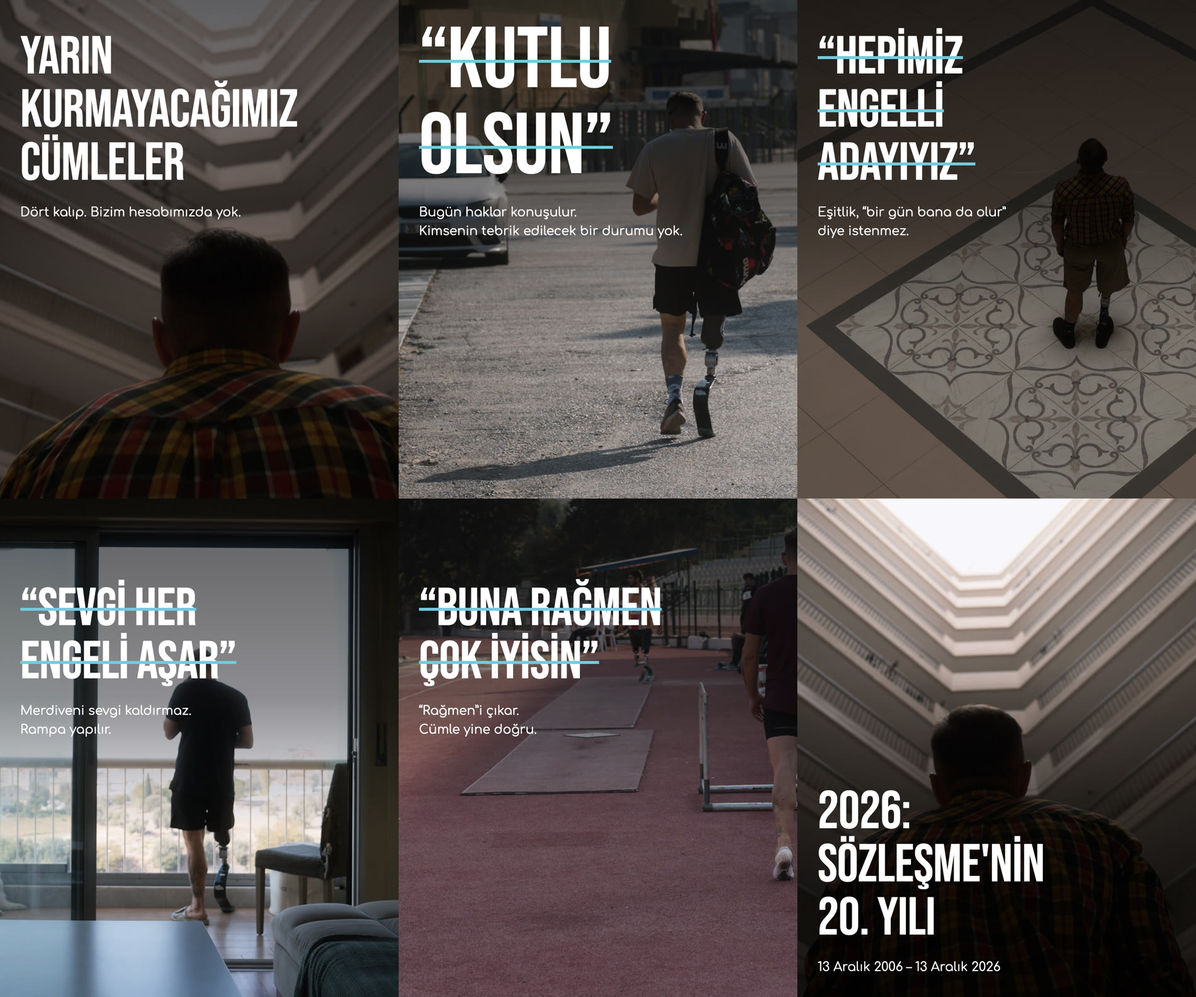
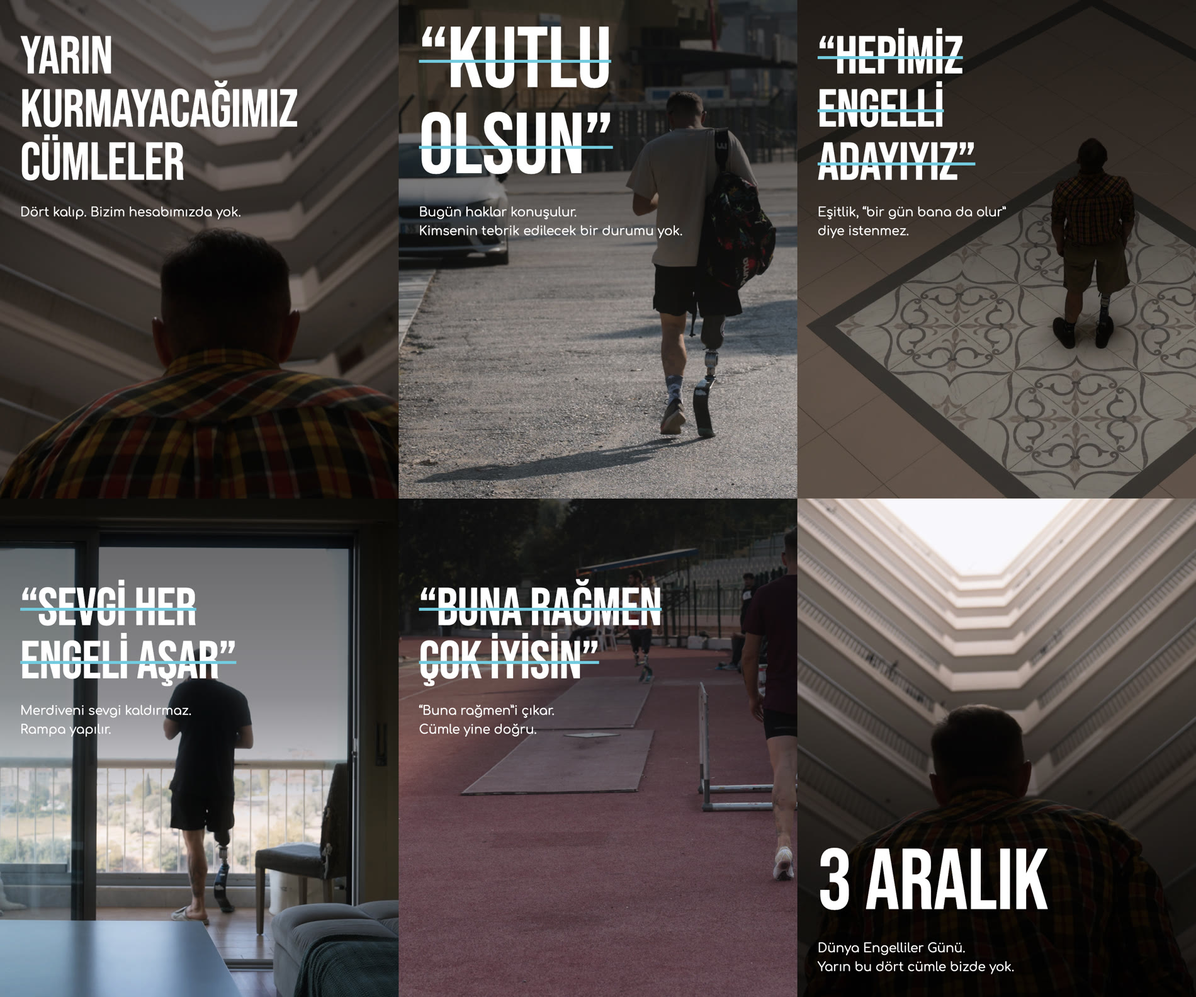
14 Kas: Denetmen 2. tur bulguları işlendi; 3 Aralık kaydırmalısından 13 Aralık çıkarıldı; maliyet kapıları kütükte

Changed region(s): [[0.6832, 0.7738, 0.8695, 0.9905], [0.3726, 0.7119, 0.4347, 0.7429]]

diff --git a/raporlar/soc-instagram-taslaklar/11-insan-haklari-gunu/kare-6.html b/raporlar/soc-instagram-taslaklar/11-insan-haklari-gunu/kare-6.html
@@ -13,5 +13,5 @@ html,body{margin:0} .f{position:relative;width:1080px;height:1350px;overflow:hid
 
 .blk.top .s{position:absolute;top:537px;left:0}
 .blk.bottom .h{margin-bottom:34px}
-.small .s{font-size:21px;line-height:1.62}
-.g{position:absolute;background:#72CBDF;opacity:.9}</style></head><body><div class="f" style="background-image:url(v4/b6.jpg)"><div class="sc bottom"></div><div class="blk bottom small"><p class="h" style="font-size:144px">MAKING<br>HUMANITY<br>TOGETHER</p><p class="s">10 Aralık İnsan Hakları Günü, 2026 teması.<br>Kaynak: un.org · treaties.un.org (14 Kasım 2026).<br>Madde özetleri bize ait, resmî çeviri değildir.</p></div></div></body></html>
+.small .s{font-size:28px;line-height:1.55}
+.g{position:absolute;background:#72CBDF;opacity:.9}</style></head><body><div class="f" style="background-image:url(v4/b6.jpg)"><div class="sc bottom"></div><div class="blk bottom small"><p class="h" style="font-size:144px">MAKING<br>HUMANITY<br>TOGETHER</p><p class="s">10 Aralık İnsan Hakları Günü, 2026 teması.<br>Kaynak: un.org · treaties.un.org<br>Madde özetleri bize ait,<br>resmî çeviri değildir.</p></div></div></body></html>

diff --git a/raporlar/soc-instagram-taslaklar/11-insan-haklari-gunu/kare-4.html b/raporlar/soc-instagram-taslaklar/11-insan-haklari-gunu/kare-4.html
@@ -13,5 +13,5 @@ html,body{margin:0} .f{position:relative;width:1080px;height:1350px;overflow:hid
 
 .blk.top .s{position:absolute;top:537px;left:0}
 .blk.bottom .h{margin-bottom:34px}
-.small .s{font-size:21px;line-height:1.62}
-.g{position:absolute;background:#72CBDF;opacity:.9}</style></head><body><div class="f" style="background-image:url(v4/b4.jpg)"><div class="sc top"></div><div class="blk top"><p class="h" style="font-size:233px">MADDE<br>30</p><p class="s">Kültür, dinlenme, boş zaman ve spor.<br>Devletler engelli bireylerin her düzeyde<br>spora katılımını teşvik eder,<br>spor alanlarına erişimi sağlar.</p></div></div></body></html>
+.small .s{font-size:28px;line-height:1.55}
+.g{position:absolute;background:#72CBDF;opacity:.9}</style></head><body><div class="f" style="background-image:url(v4/b4.jpg)"><div class="sc top"></div><div class="blk top"><p class="h" style="font-size:233px">MADDE<br>30</p><p class="s">Kültür, dinlenme, boş zaman ve spor.<br>Devletler engelli bireylerin her düzeyde<br>spora katılımını teşvik etmekle,<br>spor alanlarına erişimi sağlamakla yükümlü.</p></div></div></body></html>

diff --git a/raporlar/soc-instagram-taslaklar/11-insan-haklari-gunu/kare-5.html b/raporlar/soc-instagram-taslaklar/11-insan-haklari-gunu/kare-5.html
@@ -13,5 +13,5 @@ html,body{margin:0} .f{position:relative;width:1080px;height:1350px;overflow:hid
 
 .blk.top .s{position:absolute;top:537px;left:0}
 .blk.bottom .h{margin-bottom:34px}
-.small .s{font-size:21px;line-height:1.62}
-.g{position:absolute;background:#72CBDF;opacity:.9}</style></head><body><div class="f" style="background-image:url(v4/b5.jpg)"><div class="sc bottom"></div><div class="blk bottom c"><p class="h" style="font-size:233px">OKULDA DA</p><p class="s">Aynı madde: engelli çocuklar oyuna, spora<br>ve dinlenmeye, okul dahil,<br>diğer çocuklarla eşit erişir.</p></div></div></body></html>
+.small .s{font-size:28px;line-height:1.55}
+.g{position:absolute;background:#72CBDF;opacity:.9}</style></head><body><div class="f" style="background-image:url(v4/b5.jpg)"><div class="sc bottom"></div><div class="blk bottom c"><p class="h" style="font-size:233px">OKULDA DA</p><p class="s">Aynı madde: devletler engelli çocukların<br>oyuna, spora ve dinlenmeye, okul dahil,<br>eşit erişimini sağlamakla yükümlü.</p></div></div></body></html>

diff --git a/raporlar/soc-instagram-taslaklar/11-insan-haklari-gunu/kare-1.html b/raporlar/soc-instagram-taslaklar/11-insan-haklari-gunu/kare-1.html
@@ -13,5 +13,5 @@ html,body{margin:0} .f{position:relative;width:1080px;height:1350px;overflow:hid
 
 .blk.top .s{position:absolute;top:537px;left:0}
 .blk.bottom .h{margin-bottom:34px}
-.small .s{font-size:21px;line-height:1.62}
-.g{position:absolute;background:#72CBDF;opacity:.9}</style></head><body><div class="f" style="background-image:url(v4/b1.jpg)"><div class="sc top"></div><div class="blk top"><p class="h" style="font-size:377px">20 YIL.</p><p class="s">BM Engelli Hakları Sözleşmesi<br>13 Aralık'ta 20 yaşında.<br>İçinde ne yazıyor?</p></div></div></body></html>
+.small .s{font-size:28px;line-height:1.55}
+.g{position:absolute;background:#72CBDF;opacity:.9}</style></head><body><div class="f" style="background-image:url(v4/b1.jpg)"><div class="sc top"></div><div class="blk top"><p class="h" style="font-size:377px">20 YIL.</p><p class="s">Engellilerin Haklarına İlişkin Sözleşme<br>13 Aralık'ta 20 yaşında.<br>İçinde ne yazıyor?</p></div></div></body></html>

diff --git a/raporlar/soc-instagram-taslaklar/07-engelliler-gunu/e7_5.html b/raporlar/soc-instagram-taslaklar/07-engelliler-gunu/e7_5.html
@@ -11,4 +11,4 @@ html,body{margin:0} .f{position:relative;width:1080px;height:1350px;overflow:hid
 .h.x{text-decoration:line-through;text-decoration-color:#72CBDF;text-decoration-thickness:8px}
 .s{font:400 34px/1.5 Comf;margin:0;white-space:nowrap}
 .blk.top .s{position:absolute;top:550px;left:0}
-.blk.bottom .h{margin-bottom:34px}</style></head><body><div class="f" style="background-image:url(e7/b5.jpg)"><div class="sc top"></div><div class="blk top"><p class="h x" style="font-size:144px">“BUNA RAĞMEN<br>ÇOK İYİSİN”</p><p class="s">“Rağmen”i çıkar.<br>Cümle yine doğru.</p></div></div></body></html>
+.blk.bottom .h{margin-bottom:34px}</style></head><body><div class="f" style="background-image:url(e7/b5.jpg)"><div class="sc top"></div><div class="blk top"><p class="h x" style="font-size:144px">“BUNA RAĞMEN<br>ÇOK İYİSİN”</p><p class="s">“Buna rağmen”i çıkar.<br>Cümle yine doğru.</p></div></div></body></html>

diff --git a/raporlar/soc-instagram-taslaklar/07-engelliler-gunu/e7_6.html b/raporlar/soc-instagram-taslaklar/07-engelliler-gunu/e7_6.html
@@ -11,4 +11,4 @@ html,body{margin:0} .f{position:relative;width:1080px;height:1350px;overflow:hid
 .h.x{text-decoration:line-through;text-decoration-color:#72CBDF;text-decoration-thickness:8px}
 .s{font:400 34px/1.5 Comf;margin:0;white-space:nowrap}
 .blk.top .s{position:absolute;top:550px;left:0}
-.blk.bottom .h{margin-bottom:34px}</style></head><body><div class="f" style="background-image:url(e7/b6.jpg)"><div class="sc bottom"></div><div class="blk bottom"><p class="h" style="font-size:144px">2026:<br>SÖZLEŞME'NİN<br>20. YILI</p><p class="s">13 Aralık 2006 – 13 Aralık 2026</p></div></div></body></html>
+.blk.bottom .h{margin-bottom:34px}</style></head><body><div class="f" style="background-image:url(e7/b6.jpg)"><div class="sc bottom"></div><div class="blk bottom"><p class="h" style="font-size:233px">3 ARALIK</p><p class="s">Dünya Engelliler Günü.<br>Yarın bu dört cümle bizde yok.</p></div></div></body></html>

diff --git a/raporlar/soc-instagram-taslaklar/11-insan-haklari-gunu/kare-3.html b/raporlar/soc-instagram-taslaklar/11-insan-haklari-gunu/kare-3.html
@@ -13,5 +13,5 @@ html,body{margin:0} .f{position:relative;width:1080px;height:1350px;overflow:hid
 
 .blk.top .s{position:absolute;top:537px;left:0}
 .blk.bottom .h{margin-bottom:34px}
-.small .s{font-size:21px;line-height:1.62}
+.small .s{font-size:28px;line-height:1.55}
 .g{position:absolute;background:#72CBDF;opacity:.9}</style></head><body><div class="f" style="background-image:url(v4/b3.jpg)"><div class="sc top"></div><div class="blk top"><p class="h" style="font-size:233px">194<br>TARAF</p><p class="s">Sözleşmeye bugün<br>194 taraf var.<br>Türkiye 30 Mart 2007'de<br>imzaladı, 28 Eylül 2009'da<br>onayladı.</p></div></div></body></html>

diff --git a/raporlar/soc-instagram-taslaklar/11-insan-haklari-gunu/kare-2.html b/raporlar/soc-instagram-taslaklar/11-insan-haklari-gunu/kare-2.html
@@ -13,5 +13,5 @@ html,body{margin:0} .f{position:relative;width:1080px;height:1350px;overflow:hid
 
 .blk.top .s{position:absolute;top:537px;left:0}
 .blk.bottom .h{margin-bottom:34px}
-.small .s{font-size:21px;line-height:1.62}
+.small .s{font-size:28px;line-height:1.55}
 .g{position:absolute;background:#72CBDF;opacity:.9}</style></head><body><div class="f" style="background-image:url(v4/b2.jpg)"><div class="sc top"></div><div class="blk top"><p class="h" style="font-size:233px">13 ARALIK<br>2006</p><p class="s">BM Genel Kurulu sözleşmeyi kabul etti.<br>3 Mayıs 2008'de yürürlüğe girdi.</p></div></div></body></html>

diff --git a/raporlar/soc-instagram-taslaklar/11-insan-haklari-gunu/uretici.py b/raporlar/soc-instagram-taslaklar/11-insan-haklari-gunu/uretici.py
@@ -3,12 +3,12 @@ F=sys.argv[1]; GRID=len(sys.argv)>2
 # Altın oran ızgarası: 1080x1350. Dikey 413/667, yatay 516/834. Kenar 55. Ölçek (Fibonacci): 377/233/144/89/55/34/21
 fr=[
  # zone, align, headline, size, sub
- ("top","l","20 YIL.",377,"BM Engelli Hakları Sözleşmesi<br>13 Aralık'ta 20 yaşında.<br>İçinde ne yazıyor?"),
+ ("top","l","20 YIL.",377,"Engellilerin Haklarına İlişkin Sözleşme<br>13 Aralık'ta 20 yaşında.<br>İçinde ne yazıyor?"),
  ("top","l","13 ARALIK<br>2006",233,"BM Genel Kurulu sözleşmeyi kabul etti.<br>3 Mayıs 2008'de yürürlüğe girdi."),
  ("top","l","194<br>TARAF",233,"Sözleşmeye bugün<br>194 taraf var.<br>Türkiye 30 Mart 2007'de<br>imzaladı, 28 Eylül 2009'da<br>onayladı."),
- ("top","l","MADDE<br>30",233,"Kültür, dinlenme, boş zaman ve spor.<br>Devletler engelli bireylerin her düzeyde<br>spora katılımını teşvik eder,<br>spor alanlarına erişimi sağlar."),
- ("bottom","c","OKULDA DA",233,"Aynı madde: engelli çocuklar oyuna, spora<br>ve dinlenmeye, okul dahil,<br>diğer çocuklarla eşit erişir."),
- ("bottom","l","MAKING<br>HUMANITY<br>TOGETHER",144,"10 Aralık İnsan Hakları Günü, 2026 teması.<br>Kaynak: un.org · treaties.un.org (14 Kasım 2026).<br>Madde özetleri bize ait, resmî çeviri değildir."),
+ ("top","l","MADDE<br>30",233,"Kültür, dinlenme, boş zaman ve spor.<br>Devletler engelli bireylerin her düzeyde<br>spora katılımını teşvik etmekle,<br>spor alanlarına erişimi sağlamakla yükümlü."),
+ ("bottom","c","OKULDA DA",233,"Aynı madde: devletler engelli çocukların<br>oyuna, spora ve dinlenmeye, okul dahil,<br>eşit erişimini sağlamakla yükümlü."),
+ ("bottom","l","MAKING<br>HUMANITY<br>TOGETHER",144,"10 Aralık İnsan Hakları Günü, 2026 teması.<br>Kaynak: un.org · treaties.un.org<br>Madde özetleri bize ait,<br>resmî çeviri değildir."),
 ]
 css=f"""@font-face{{font-family:Bebas;src:url(file://{F}/BebasNeue-Regular.ttf)}}
 @font-face{{font-family:Comf;src:url(file://{F}/Comfortaa-Regular.ttf)}}
@@ -25,7 +25,7 @@ html,body{{margin:0}} .f{{position:relative;width:1080px;height:1350px;overflow:
 
 .blk.top .s{{position:absolute;top:537px;left:0}}
 .blk.bottom .h{{margin-bottom:34px}}
-.small .s{{font-size:21px;line-height:1.62}}
+.small .s{{font-size:28px;line-height:1.55}}
 .g{{position:absolute;background:#72CBDF;opacity:.9}}"""
 grid='<div class="g" style="left:413px;top:0;width:2px;height:100%"></div><div class="g" style="left:667px;top:0;width:2px;height:100%"></div><div class="g" style="top:516px;left:0;height:2px;width:100%"></div><div class="g" style="top:834px;left:0;height:2px;width:100%"></div><div class="g" style="left:55px;top:0;width:1px;height:100%;opacity:.5"></div><div class="g" style="left:1025px;top:0;width:1px;height:100%;opacity:.5"></div>' if GRID else ''
 for i,(z,a,h,fs,s) in enumerate(fr,1):

diff --git a/raporlar/soc-instagram-taslaklar/07-engelliler-gunu/uretici.py b/raporlar/soc-instagram-taslaklar/07-engelliler-gunu/uretici.py
@@ -5,8 +5,8 @@ fr=[
  ("top","“KUTLU<br>OLSUN”",233,"Bugün haklar konuşulur.<br>Kimsenin tebrik edilecek bir durumu yok.",True),
  ("top","“HEPİMİZ<br>ENGELLİ<br>ADAYIYIZ”",144,"Eşitlik, “bir gün bana da olur”<br>diye istenmez.",True),
  ("top","“SEVGİ HER<br>ENGELİ AŞAR”",144,"Merdiveni sevgi kaldırmaz.<br>Rampa yapılır.",True),
- ("top","“BUNA RAĞMEN<br>ÇOK İYİSİN”",144,"“Rağmen”i çıkar.<br>Cümle yine doğru.",True),
- ("bottom","2026:<br>SÖZLEŞME'NİN<br>20. YILI",144,"13 Aralık 2006 – 13 Aralık 2026",False),
+ ("top","“BUNA RAĞMEN<br>ÇOK İYİSİN”",144,"“Buna rağmen”i çıkar.<br>Cümle yine doğru.",True),
+ ("bottom","3 ARALIK",233,"Dünya Engelliler Günü.<br>Yarın bu dört cümle bizde yok.",False),
 ]
 css=f"""@font-face{{font-family:Bebas;src:url(file://{F}/BebasNeue-Regular.ttf)}}
 @font-face{{font-family:Comf;src:url(file://{F}/Comfortaa-Regular.ttf)}}

diff --git a/raporlar/denetmen-soc-instagram-v5-ve-adaylar-2026-11-14.md b/raporlar/denetmen-soc-instagram-v5-ve-adaylar-2026-11-14.md
@@ -1,0 +1,171 @@
+# DENETMEN RAPORU (Orkestratör Sentezi) — 2. tur
+
+**Tarih:** 14 Kasım 2026, Cumartesi
+**Denetlenen:** Fox — SoC Instagram planı v5 (A) · madde 11 kaydırmalı taslağı, 6 kare (B) · Higgsfield adayları: 4 durağan + 3 UGC kare + 5 UGC video (C) · Metin Yazarı metinler v01 (D) · Astrid sahne seti (E)
+**Mercekler:** Verification · Red Team · Devil's Advocate (tek elden yürütüldü, ayrı alt ajan çağrılmadı) + Tutarlılık / Değer Uyumu / Kalite Tabanı / Atlanmış Soru / İnsan Sesi / Erişilebilirlik (uygulanmaz: hiçbir şey yayınlanmadı)
+**Kapsam:** Ayhan'ın 14 Kas kararları (Higgsfield, spor çizgisi, geniş açı lifestyle, UGC dilinde üretim, Belgesel Stills izni) verili alındı, tartışılmadı. Hiçbir dosya değiştirilmedi, hiçbir şey yayınlanmadı, kredi harcanmadı. `Yapay Zeka Görselleri` klasörü yalnız okundu; videolardan scratch dizinine küçük kare tabloları çıkarıldı, başka hiçbir araca girdi verilmedi.
+
+## KARAR: DİKKAT — B ve C'nin UGC kısmı bu haliyle yayın için DUR
+
+Uydurma tarih ya da rakam bulmadım; madde 11'deki olguların hepsi birincil kaynakla tutuyor. Sorun üç yerde: (1) YZ "UGC" adayları planın kendi dürüstlük kuralını ve "yüz yok" kuralını çiğniyor, (2) madde 11'de gerçek sporcular tanınabilir ve karelerde dört ayrı üçüncü taraf işareti var, (3) plan v5 ile bugün fiilen üretilenler birbirinden kopmuş.
+
+---
+
+## DOĞRULANANLAR (bulgu değil, kayıt)
+
+| Olgu (kare) | Kaynak (bugün açıldı) | Sonuç |
+|---|---|---|
+| 13 Aralık 2006, BM Genel Kurulu kabul (2) | treaties.un.org IV-15: "New York, 13 December 2006", A/RES/61/106 | Tutuyor |
+| 3 Mayıs 2008 yürürlük (2) | aynı sayfa: "3 May 2008, in accordance with article 45(1)" | Tutuyor |
+| 194 taraf (3) | aynı sayfa: "Signatories : 164. Parties : 194" | Tutuyor (14 Kas okuması; taraflardan biri AB, "194 devlet" denmemeli — kare "taraf" diyor, doğru) |
+| Türkiye 30 Mar 2007 imza, 28 Eyl 2009 onay (3) | aynı sayfa, Türkiye satırı | Tutuyor |
+| "13 Aralık'ta 20 yaşında" (1) | kabul tarihinden 20 yıl | Doğru (yürürlükten değil kabulden sayılıyor; kare 2 bunu açıklıyor) |
+| "Making Humanity Together", 2026 (6) | un.org/en/observances/human-rights-day: "2026 Theme – Making Humanity Together" | Tutuyor |
+| Madde 30 başlığı ve 5. fıkra (4, 5) | aile.gov.tr resmî Türkçe metin (başlık: "Kültürel Yaşama, Dinlenme, Boş Zaman Aktiviteleri ve Spor Faaliyetlerine Katılım"); ohchr.org 403 verdi, İngilizce metin hafızadan karşılaştırıldı | Özet içerikçe sadık; iki nüans bulgu 6'da |
+| Sözleşme'nin resmî Türkçe adı | aile.gov.tr + Resmî Gazete 14.07.2009/27288 (5825 sayılı Kanun) | **"Engellilerin Haklarına İlişkin Sözleşme"** — metinler v01'deki bayrak kapanabilir |
+| Türkçe glyph | altı PNG gözle bakıldı | İ (İçinde, İnsan), ı (YIL, ARALIK, yazıyor), ş, ü, ğ, î (resmî) doğru. Marka fontları yüklü (Bebas Neue + Comfortaa) |
+| 3 Aralık 2026 teması (metinler, madde 07 kare 6) | idpwd.gov.au (Avustralya hükümeti) "The CRPD at 20: Building on Progress, Advancing the Future" diyor; BM'nin kendi sayfasında **görmedim** | Hâlâ ikincil. Bayrak yerinde kalmalı |
+
+Plan sayımları: kaynak dengesi (6+1 / 8 / 2 / 3 = 20), format (6 / 6 / 6 / 1 / 1), çekirdek 14 + isteğe bağlı 6 — üçü de tablodan yeniden sayıldı, tutuyor. Beş özel gün karşılanıyor (04, 07+08, 11, 13 şartlı, 18).
+
+---
+
+## BULGULAR
+
+### Bloklayan
+
+**1. (C) YZ "UGC" kareleri ve videoları gerçek kullanıcı izlenimi veriyor; plan kendi kuralıyla çelişiyor.** *Red Team + Değer Uyumu*
+Kanıt: (a) `tur-4-prompt-ugc-*.txt` ilk satırı: "It is a real, casual photo taken on a current iPhone by a friend or by the person themself and posted to Instagram as is." Amaç metni gerçek kullanıcı paylaşımını taklit etmek. (b) Plan §2 karar 4: "Oyuncuya kullanıcı gibi davrandırmak plan dışı"; §2.1: "UGC dilindeki kareler gerçek kullanıcı içeriği gibi sunulmaz." Var olmayan bir insana kullanıcı gibi davrandırmak aynı şeyin YZ hali. (c) `ugc-ayna-soyunma-odasi.png`: ayna selfie'si, üç mercekli telefon, yüzün yarısı görünür — kareyi gören "bu kadın çorabı aldı ve paylaştı" okur. (d) K8 (YZ etiketi) hâlâ açık karar; etiket caption'ın altında kalır, kare ekran görüntüsüyle dolaşır.
+İşaret (hüküm değil, avukata): Türkiye'de reklam mevzuatında tanıklık içeren reklam ve örtülü reklam hükümleri (6502 sayılı Kanun md. 61, Ticari Reklam ve Haksız Ticari Uygulamalar Yönetmeliği) ve Reklam Kurulu'nun sosyal medya kılavuzu bu tür içeriğe dokunabilir. Meta gerçekçi YZ video için etiket istiyor.
+Düzeltme: ayna selfie'si elenir (en yüksek aldatma riski). Kalan geniş açı kareler "UGC" adıyla değil "marka çekimi, YZ ile üretildi" diye adlandırılır; plan ve dosya adlarından "UGC" çıkar. K8 "öneri" olmaktan çıkıp ön koşul olur: etiket + caption'da bir satır. Prompt'tan "posted to Instagram as is by the person" cümlesi çıkar. Madde 17 (gerçek davetli içerik) ile aynı ay içinde yan yana durmaları ayrıca sorun: gerçek kullanıcı içeriği geldiğinde kimse inanmaz.
+
+**2. (C/A) Plan "yüz yok" diyor; yedi adayın beşinde okunur yüz var.** *Tutarlılık + Red Team*
+Kanıt: Plan §2.1: "Yüz yok. Üretilen karelerde yalnız diz altı, el, eşya." K1: "yüzsüz bir figür (diz altı, eller)". Adaylar: `ugc-tribun-kosu-sonrasi.png` kameraya dönük olmasa da tam yüz, kahkaha; `ugc-korttan-cikis.png` tam profil; `ugc-video-kort-servis-hazirligi.mp4` 6 saniye boyunca yüz; `ugc-video-pist-esneme.mp4` ikinci yarıda yüz. Astrid'in kendi kuralı (§Yön 13: "Kameraya bakan, gülümseyen figür yok") da tribün karesinde çiğnenmiş. Fotogerçekçi YZ yüzün gerçek bir kişiye benzeme riski ölçülmedi, ölçülemez; benzeyen biri çıkarsa "yüzüm reklamda" şikâyeti markaya gelir.
+Düzeltme: ya plan dürüstçe güncellenir ("tam boy figürde yüz arkadan/profilden, küçük; kahkaha ve okunur yüz yok") ve tribün + servis videosu buna göre elenir/yeniden kadrajlanır, ya da Ayhan okunur YZ yüzü bilerek kabul eder. Bu bir Ayhan kararı ve K listesinde yok.
+
+**3. (B) Madde 11'deki sporcular "yüz yok" olsa da tanınabilir; marka hesabı kullanımı için rıza teyidi yazılı değil.** *Red Team + Değer Uyumu*
+Kanıt: kare 1 — bacakta dövme + bıçak protezde mavi pençe çıkartması; kare 3 — iki sporcu arkadan, biri çift taraflı koşu protezi kullanıyor, kulak ve saç okunur; kare 4 — tişört kolunda kulüp arması, yüzün bir kısmı. Türkiye'de protezli atletizm küçük bir çevre; bu üç kare o çevrede isimle okunur. Ayhan'ın "belgesel stills'i kullanabilirsin" izni filmin sahibi olarak kendi hakkını kapatır; sporcuların filme verdiği rızanın **çorap satan bir marka hesabını** kapsayıp kapsamadığı ayrı soru. Hafıza notu da "reşit olmayan kapısı yine uygulanır" diyor; karelerdeki kişilerin yaşı dosyada yazmıyor.
+Ayhan'a tek cümle: *"Bu dört karedeki sporcular, görüntülerinin belgeselin dışında Steps On Clouds'un Instagram hesabında kullanılmasına da evet dedi mi, aralarında 18 yaşından küçük var mı?"* Cevap gelene kadar kare 1–4 yayınlanmaz.
+
+**4. (B) Karelerde dört üçüncü taraf işareti var; biri rakip kategori.** *Red Team*
+Kanıt: kare 1 sol üst — şortta üç bant + yazı (Adidas görünümlü); kare 2 — ayakkabı dilinde okunur "NIKE", yanında desenli **başka bir çorap markasının** logolu çorabı kareyi dolduruyor, protez bıçağında üretici yazısı ("FRE…"); kare 4 — ayakkabıda belirgin swoosh + aynı desenli çorap; kare 3 — bıçak tabanında sarı marka deseni (düşük).
+Risk düzeyi: hukuki taraf **orta-düşük** (gerçek belgesel karesi, ürün satmıyor; ama marka hesabı ticari hesap — işaret avukata). Ticari/itibar tarafı **orta-yüksek**: çorap satan bir markanın hak günü gönderisinin ikinci karesinde başka bir çorap markası başrolde; ve bu markalar kendi hesaplarından "hak gününde logomuzla ne yapıyorsunuz" diyebilir. Plan madde 11 kapısı yalnız "ayakkabıdaki marka işareti" diyor; şort, çorap ve protez üreticisi yazılmamış.
+Düzeltme: kare 2 değişir (çorap + NIKE aynı karede, kırpmayla kurtulmaz). Kare 4 ayak bölgesi kadraj dışına alınır ya da kare değişir. Kare 1'de sol üst köşe kırpılır. Logoyu silmek/boyamak önermiyorum: belgesel karesinde rötuş "gerçek kare" iddiasını zayıflatır; doğrusu başka kare seçmek.
+
+**5. (E) Astrid sahne seti YZ çıktısını yeniden girdi yapıyor; Ayhan'ın açık yasağı.** *Tutarlılık*
+Kanıt: Astrid §4, 05-2 / 05-3 / 05-4 / 10-1 / 10-2 / 10-3 referans sırası: "4) `tur-3-soyunma-odasi.jpg` (mekân ve kişi kilidi)", "`tur-3-kort-esigi.jpg`", "`tur-3-pist.jpg`"; §3: "ilk onaylanan geniş kare… kilit olur". Bunlar `Yapay Zeka Görselleri/Adaylar` içindeki dosyaların repo kopyası. Ayhan: "Sakın… Yapay Zeka Görselleri klasörünü tekrar tekrar işleme"; hafıza: "referans/girdi olarak tekrar üretime sokulmaz. Higgsfield referansı yalnız orijinal fotoğraftan verilir." Bugünkü beş video da YZ kareden hareketlendirildi ("exactly as in the first frame"): yasak görselden-videoya üretimi kapsıyor mu, sorulmamış.
+Düzeltme: üretimden önce Ayhan'a tek soru: "YZ karesini (a) videoya çevirmek, (b) sonraki kareye kişi/mekân kilidi olarak vermek yasağın içinde mi?" Cevap gelene kadar set yalnız üç orijinal referansla (`3H2A9014/8997/8554`) çalışır; 4. referans satırları çıkar.
+
+### Düzeltilmeli
+
+**6. (B) Madde 30 özeti: iki nüans ve bir görsel-yazı kopukluğu.** *Verification*
+- Kare 5: "engelli çocuklar… diğer çocuklarla eşit erişir." Sözleşme bir yükümlülük koyar (devletler eşit erişimi **sağlamak için tedbir alır**); kare bunu olmuş bir durum gibi yazıyor. Türkiye'de okulda spora erişemeyen bir çocuğun velisi bu cümleyi yanlış bulur. Öneri: "Devletler, engelli çocukların… eşit erişimini sağlamakla yükümlü."
+- Kare 4: "teşvik eder, … sağlar" yükümlülüğü abartmıyor, ama "uygun tedbirleri alır" çerçevesi ve "genel (herkese açık) spor etkinlikleri / mümkün olan en geniş ölçüde" kaydı düşmüş. Kabul edilebilir kısaltma; "Taraf devletler" yazılırsa daha doğru.
+- Kare 5 görseli bir apartman boşluğu ve bisikletler; başlık "OKULDA DA". Görsel okul değil. Hafıza notundaki "görsel yazı sinerjisi" isteğiyle çelişiyor.
+- Kare 6 uyarı satırı ("Madde özetleri bize ait, resmî çeviri değildir") 21 px; 1080 px karede telefonda yaklaşık 7 punto, okunmaz. Uyarı okunmuyorsa yok sayılır. En az 34 px ya da caption'a da yazılmalı.
+- "194 taraf… bugün": sayı 14 Kasım okuması; 10 Aralık sabahı yeniden okunmalı (yayın günü kapısı).
+- Adlandırma: kare 1 "BM Engelli Hakları Sözleşmesi" (yaygın kısa ad), metinler v01 caption'ı "Engellilerin Haklarına İlişkin Sözleşme" (resmî ad, bugün teyit edildi). Yanlış değil ama iki ad aynı gönderide. Caption'da resmî ad bir kez, karede kısa ad kalabilir. "Sözleşmesi / sözleşmeyi / Sözleşmeye" büyük-küçük harf tutarsız.
+
+**7. (B) Onur: kapakta protez kanca kare olarak çalışıyor; kare 4 yorgunluk okutuyor.** *Değer Uyumu*
+Kare 1: kişi kesilmiş, kadrajın öznesi bıçak protez, üstünde 377 punto "20 YIL." İnsan değil cihaz kapakta. Acıma ya da ilham çerçevesi yok, süper-insan dili yok; ama hak temalı bir gönderide dikkat çekici nesne olarak protez seçilmiş — planın kendi sabiti ("protez… görselle de kurulmaz", "kanca kare" kaygısı) ile aynı aileden. Kare 3 (iki sporcu yan yana yürüyor, biri kolunu diğerinin omzuna atmış; fail, gündelik, eşit) bu setin en onurlu karesi ve kapak adayı.
+Kare 4: sporcu başını engele yaslamış, yüz kollarda; üstünde "Devletler… teşvik eder". Antrenman arası dinlenme, ama hak cümlesiyle yan yana "zorlanıyor, devlet yardım etmeli" diye okunabilir. Kurban çerçevesine en yakın kare bu. Hareket hâlinde bir kareyle değişmeli.
+Öneri: sıra 3 → kapak; kare 1 içeriye; kare 4 değişir.
+
+**8. (C) Çorap logosu ve ürün temsili: aday aday.** *Verification — gerçek referans `3H2A9014.jpg` ile karşılaştırıldı (bulut konturu + sağ üstte küçük figür, koncun dış yanında, yaklaşık konç genişliğinin yarısı)*
+
+| Aday | Logo | Diğer | Öneri |
+|---|---|---|---|
+| `aday-ipte` | Dört amblem de referansa yakın; konumu konç ağzına fazla yakın | Yok | Kullanılabilir (en temiz aday) |
+| `aday-kort-esigi` | Ön çorap yakın; arka çorapta amblem dönmüş, figür altta | Ayakkabı referanstaki üçüncü taraf modelin neredeyse kopyası (yan panelde gri bant) | Arka amblem düzelmeden çıkmaz; ayakkabı K4'e bağlı |
+| `aday-pist` | Amblem çorabın **arkasında**, sol çorapta iki amblem, sağda yarım üçüncü | — | Ele |
+| `aday-soyunma-odasi` | Amblem gerçeğinin yaklaşık iki katı, figür yeri kaymış | Kadrajda şort/giysi görünmüyor, figür çıplak okunuyor (Astrid de not etmiş) | Ele ya da yeniden kadraj |
+| `ugc-ayna-soyunma-odasi` | Sol çorapta amblem dikey bir işarete dönmüş | Üç mercekli telefon (logo yok ama tasarım tanınır); yüz | Ele (bulgu 1) |
+| `ugc-korttan-cikis` | Küçük, kabul edilebilir | Raket çantasında marka grafiğine benzer kırmızı-yeşil işaretler; sol ayakkabıda topuk yanında koyu kavisli iz (%100'de bakılmalı); tam profil yüz | Çanta ve ayakkabı %100'de teyit edilmeden çıkmaz |
+| `ugc-tribun-kosu-sonrasi` | Çok küçük | **Şortun paçasında yuvarlak ikinci bir amblem** (SoC'nin şortu yok: uydurma ürün ya da üçüncü taraf izlenimi); yanak ve omuzda patlamış parlak lekeler; tam yüz, kahkaha | Ele |
+| video `bagcik` | İlk karelerde amblem yok, klibin ortasında beliriyor ve "JS" benzeri bir işarete dönüyor | — | Ele. Plan madde 10 bunu "aday video hazır" sayıyor |
+| video `top-alma` | Klip boyunca tutarlı, referansa yakın | Top üçüncü kareden sonra kadrajdan çıkıyor (hata değil) | Yakın planlar içinde en kullanılabilir |
+| video `pist-yuruyus` | Arkadan, amblem okunmuyor | Marka sızıntısı görmedim | Fizik temiz; ürün görünmüyor, "ürün" hattına yazılamaz |
+| video `kort-servis-hazirligi` | Leke düzeyinde | Yüz baştan sona okunur | Bulgu 2'ye bağlı |
+| video `pist-esneme` | Amblem kaval kemiğinin önünde ve büyük (gerçekte dış yanda) | **Bileklik ilk üç karede var, sonra yok** (süreklilik hatası); yüz | Düzeltilmeden çıkmaz |
+
+Ölçemediğim: videoların sesi (dinleyemedim; YZ ses izi var, prompt "no voice" diyor ama teyitsiz), kareler %100 büyütmede, YZ yüzlerin gerçek bir kişiye benzerliği.
+Reklam işareti: müşteri sitede gördüğü çorabı eline almalı (planın kendi cümlesi). Amblemi yeri/boyu farklı çorap gösteren reklam "ürünü yanlış temsil" şikâyetine açık. Kural öneriyorum: **amblemin okunduğu her kare referansla yan yana konup geçmeden yayın adayı sayılmaz.**
+
+**9. (A) Plan v5 bugün olanların gerisinde kalmış; yedi iç tutarsızlık.** *Tutarlılık*
+- Satır 4: "Hiçbir içerik üretilmedi." Üretildi: 12 YZ aday + 6 karelik taslak.
+- §2.1: "Hesapta 1.000 kredi var"; bugün 763. "Önce üç karelik deneme… kredi yanmaz": altı tur yapıldı, 237 kredi harcandı.
+- §2.1 "Yüz yok… yalnız diz altı" ile aynı bölümdeki "Geniş açı, tam boy" yan yana (bulgu 2). K1 metni eski; K1'in bağlı madde listesinde 04 ve 15 yok.
+- §2 karar 4 ve okuma anahtarı hâlâ "Lo-fi" tanımlıyor (08, 12, §6 "Lo-fi ile editorial farkı", §9). 08 ve 12 gerçek telefon çekimi, reddedilen YZ lo-fi görünümü değil; ama terim iki anlamda kullanılıyor. 08/12 için "telefon çekimi" denmeli. "Loafer / lacivert pantolon" kalıntısı yok (yalnız "reddedildi" diye geçiyor).
+- §5: madde 11 "tipografik hali yalnız tema teyidine bağlı". Madde 11 artık gerçek kareli; kapıları rıza, üçüncü taraf işaret ve metin.
+- K3: "tipografik kareler (02, 07, 11)" logoya bağlı. Ayhan "her kareye marka adı/logo yok" dedi; 11 için K3 düşer.
+- §8.0: "Bu sürüm (v3) Denetmen'den henüz geçmedi." Başlık v5.
+- §7.5 klasör yolu (`Steps On Clouds/Instagram 2026-11_12/`) gerçek yollarla (`Design /Instagram…`, `Görseller/Yapay Zeka Görselleri/…`) tutmuyor.
+
+**10. (A) Orijinal–YZ dengesi sayıda dengeli, görünürlükte YZ ağır.** *Devil's Advocate*
+Sayım doğru: orijinal 6 (+19 şartlı), YZ 8. Ama: (a) çekirdek 14 içinde YZ 6, orijinal 4; (b) ürün hattındaki dört Reels'in dördü de YZ (05, 10, 15, 16), gerçek Reels yalnız 08 ve 12; (c) 24 Kas – 8 Ara arasında art arda dört YZ gönderi (04, 05, 06, 10), aralarında orijinal olarak yalnız 07/08/09. İlk izlenim haftalarında hesabın hareketli yüzü tamamen YZ olur. "Dengeli" Ayhan'ın sözü; sayı tutuyor, sıra tutmuyor.
+Öneri: 14 (orijinal, `Steps On Mela` yakın planlar) 5 Aralık öncesine çekilir ya da 06 ile yer değiştirir; 10'un yakın planı gerçek arşiv videosundan gelir (varsa).
+
+**11. (D) Metinler v01.** *İnsan Sesi + Değer Uyumu*
+- **Madde 11 metni taslakla uyuşmuyor.** Metin 5 kare ve üç tarih anlatıyor; taslak 6 kare ve Madde 30. C1 "Yorum eklemedik" diyor, karelerde bizim özetimiz var. C1 "Üç tarihi kaydet" diyor. Yeniden yazılmalı; karelerdeki metin de Metin Yazarı'ndan geçmedi (Model A).
+- **Madde 07 kare 5:** "'Rağmen'i çıkar. Cümle yine doğru." Çıkarınca "Buna çok iyisin" kalır; cümle doğru olmuyor. "'Buna rağmen'i çıkar" olmalı. Ayrıca emir kipi; aynı gönderinin caption'ı "kimseye ders olsun diye yazılmadı" diyor.
+- **Kare 2:** "Kimsenin tebrik edilecek bir durumu yok." "Durum" kelimesi engelliliği eksiklik gibi okutabilir; dört karşı cümlenin en riskli olanı. Öneri yönü (yazmak Metin Yazarı'nın): cümle günü anlatsın, kişiyi değil.
+- **Kare 4:** "Merdiveni sevgi kaldırmaz. Rampa yapılır." İki cümleye bölünmüş karşıtlık kalıbı; yazarın "karşıtlık sıfır" sayımı bunu görmüyor. Tek başına kalabilir, ama dört karenin dördü de aforizma ritminde: kalıp–cevap–kalıp–cevap. Vaaz tonu buradan geliyor. Bir ya da iki karede cevap yerine olgu (kaynaklı bir veri, bir tarih) konursa ton düşer.
+- **07 C1:** "Biz de yıllarca duyduk." Marka adına yaşanmışlık beyanı; Ayhan'ın kendi cümlesi değilse uydurma yaşanmışlık. Ayhan onayı açıkça işaretlenmeli. **07 C2:** "Bir markanın sosyal medyasını yöneten birini tanıyor musun? Bu gönderiyi ona yolla." Planın "kimseyi hedef almaz" satırıyla doğrudan çelişir; çıkmalı.
+- **Madde 04 "İLK ADIMI ÖĞRETENE":** bağ zorlama. İlk adımı öğretmen değil aile öğretir; C1'deki "İlk adımı onlardan öğrendik" cümlesi bu yüzden aksıyor. Marka ekseni ("adım") günün öznesinin önüne geçmiş. Üstüne görsel YZ: var olmayan bir koçla gerçek öğretmenlere teşekkür. "TEŞEKKÜRLER HOCAM" (seçenek 2) daha dürüst; ya da plan kendi cümlesini uygular ve gün atlanır.
+- **Madde 16:** "CloudOne'da sormana gerek yok… numara sormadan alınır." 38–44 dışındaki ayak için yanlış; başlık 2 ("NUMARA SORMA") aynı sorun. "38–44 arasıysa sormana gerek yok."
+- Kara liste, indirim/kıtlık dili, "protez uyumlu", övgü cümlesi: yok. `sozdizim_tarama.py` dosyanın tamamında çalıştırıldı, çıktı vermedi (araç kısa caption'ı ölçmüyor; yazarın notu doğru). 48 saat kuralı: aracın kısa metinde kör olduğu ikinci kez kayda geçti, kapıya dönüşmedi.
+
+### Not
+
+**12.** Kare 3'te beyaz gövde metni yaprak ve duvar üstünde; "194 taraf var." satırı açık zeminde zayıf. Gölge katmanı kare 3 için koyulaştırılmalı. · Planın punto ölçeği "377/233/144/34/21" diyor, üretici ve hafıza "377/233/144/89/55/34/21"; 89 ve 55 kullanılmamış, sorun değil. · Astrid §8.7'deki öneri (markasız tek ayakkabı referansı) ayakkabı sızıntısının kalıcı çözümü; ama o da YZ çıktısını girdi yapar (bulgu 5'e bağlı). · Astrid §8.5: madde 16'daki hediye kutusu uydurma; gerçek ambalaj gösterilmiyorsa "hediye paketi" ürünün ambalajı gibi okunmamalı.
+
+---
+
+## KIRMIZI TAKIM — olduğu gibi yayınlanırsa en kötü üç senaryo
+
+1. **"Sahte kullanıcılarla reklam."** Bir takipçi ya da rakip ayna selfie'sinin YZ olduğunu gösterir (bileklik kayboluyor, logo değişiyor, şortta olmayan amblem). Marka aynı hafta başkalarına "kurmayacağımız cümleler" diye dil kuralı koymuş ve bio'sunda dürüstlük taşıyor. Sonuç: ikiyüzlülük okuması, Reklam Kurulu şikâyeti olasılığı, gerçek kullanıcı içeriğinin (madde 17) inandırıcılığının bitmesi. 295 takipçide yayılma küçük, ama ekran görüntüsü kalıcı ve Ayhan'ın adına yapışır.
+2. **"Protezimi çorap reklamına kapak yaptılar."** Kare 1 ya da 3'teki sporculardan biri ya da kulübü, rızası olmadığını yazar. Gönderi hak günü gönderisi olduğu için çelişki en sert haliyle okunur: hakları anlatan gönderi, öznesinin hakkını sormamış. Kareler aynı hafta hediye sezonu satış gönderilerinin (8 ve 12 Aralık) arasında.
+3. **"Hak gününü vitrine çevirdi."** 2–10 Aralık arası dört hak içeriği (07, 08, 11 + 13 Aralık Story), iki yanında YZ ürün Reels'leri ve yılbaşı son sipariş Story'si. 07'nin karşı cümleleri vaaz tonunda kalırsa ilk yorum "sen kimsin" olur; kare 2 ve 4'teki Nike/Adidas/rakip çorap işaretleri de "başkasının markasıyla hak içeriği" diye ayrıca dolaşır.
+
+---
+
+## MALİYET — 237 krediden çıkan kapı ve ölçü (CLAUDE.md §10: red → 48 saatte ölçü ya da kapı)
+
+Gözlem: reddedilen turların sebebi piksel değil **yön**dü (kirli/lo-fi; loafer; diz altı ağırlık). Yön hatası üretmeden, bir cümleyle yakalanabilirdi. Commit kaydına göre iki video 70 kredi; beş video yaklaşık 175 kredi eder (harcamanın yaklaşık dörtte üçü; tam döküm dosyada yok). Ayhan'ın tercih etmediği üç yakın plan video, "videolarda da geniş açı istiyorum" sözünden **önce** mi sonra mı üretildi, kayıtta okunmuyor. `raporlar/teslim-kutugu.md`'de bugünün kredi satırı yok.
+
+Önerilen kapılar (Fox uygular, Ayhan onaylar):
+1. **Yön kartı kapısı (0 kredi).** Her yeni görsel yönden önce Ayhan'a beş satır: styling · mekân · kadraj (diz altı / tam boy) · figür ve yüz · bir referans kare (orijinal). "Evet" gelmeden üretim yok. Bugünkü üç reddin üçü bu kartta yakalanırdı.
+2. **Tur tavanı.** Onaysız yönde tur başına en çok 3 kare (6 kredi). Video yalnız Ayhan'ın **o kareyi** onaylamasından sonra, tek tek; bir oturumda onaysız en çok 1 video.
+3. **Logo kapısı (0 kredi).** Videoya gidecek karede amblem referansla yan yana konur; sapma varsa video üretilmez (video sapmayı miras alır: bağcık ve esneme klipleri).
+4. **Maliyet satırı.** Her turdan önce "bu tur X kredi, kalan Y" yazılır; tur bitince teslim kütüğüne tur · kredi · kabul/ret · **ret sebebi** girer.
+Ölçü: **kabul edilen aday başına kredi.** Bugünün değeri Ayhan hangi adayları tuttuğunu söyleyince hesaplanır; benim sayımımla kullanılabilir durumda olan en çok 4 aday var (`aday-ipte`, `top-alma`, `pist-yuruyus`, şartlı `korttan-cikis`), yani aday başına yaklaşık 60 kredi.
+
+---
+
+## ÇELİŞKİ
+
+Alt roller arası çelişki yok (tek denetçi). Fox ile ayrışma beklediğim nokta: bulgu 1. Fox "UGC dili Ayhan'ın kararı" diyebilir; ben kararı tartışmıyorum, kararın içindeki riski yazıyorum: Ayhan "UGC'leri de buna göre çalış" dedi, "gerçek kullanıcı paylaşımı gibi görünsün" demedi. İkisi Ayhan'a birlikte gitmeli.
+
+## SORULMAMIŞ SORULAR
+
+1. Belgesel sporcularının rızası marka hesabını kapsıyor mu, reşit olmayan var mı? (bulgu 3)
+2. YZ karesini videoya çevirmek ve sonraki kareye referans vermek "tekrar işleme" yasağının içinde mi? (bulgu 5)
+3. Okunur YZ yüzü Ayhan bilerek kabul ediyor mu? (bulgu 2)
+4. YZ ile üretilmiş gönderi @ayhanerden_ ile ortak paylaşılmayacak (K9); peki takipçi "bu kim?" diye sorarsa hesabın cevabı ne olacak? Cevap metni hazır değil.
+5. Videoların sesi kim tarafından dinlendi? YZ ses izi yayınlanacak mı, kesilecek mi?
+6. Madde 04 için 24 Kasım'a on gün var, sahne (04b) henüz üretilmedi ve iki figürlü geniş açı hiç denenmedi. Gün atlanırsa yerine ne çıkar?
+
+## KARAR ÖNERİSİ
+
+☐ Temiz
+☑ **Düzelt — Fox:** bulgu 9 (plan güncelleme), 8 (aday eleme tablosu), 6 ve 4 (madde 11 kare değişimi ve metin) · **Metin Yazarı:** bulgu 11 ve madde 11 kare metinleri · **Astrid:** bulgu 5, 2
+☑ **Ayhan'a eskalasyon:** bulgu 1 (YZ "UGC"nin nasıl sunulacağı + K8), bulgu 2 (yüz), bulgu 3 (sporcu rızası), bulgu 5 (yasağın kapsamı). Dördü de Ayhan'ın tek cümlelik cevabıyla kapanır; hiçbiri onun verdiği kararı geri almıyor.
+
+## Kaynaklar
+
+- treaties.un.org, IV-15 (CRPD durum sayfası): https://treaties.un.org/Pages/ViewDetails.aspx?src=TREATY&mtdsg_no=IV-15&chapter=4&clang=_en
+- un.org, Human Rights Day: https://www.un.org/en/observances/human-rights-day
+- Aile ve Sosyal Hizmetler Bakanlığı, Sözleşme tam metni: https://www.aile.gov.tr/eyhgm/engellilerin-haklarina-iliskin-sozlesme/sozlesme-surumleri-ve-ek-protokol/normal-surum/tam-metin/
+- TBMM, Resmî Gazete 27288: https://www.tbmm.gov.tr/Files/Komisyonlar/insanHaklari/docs/ulusal_belgeler/Rg27288.pdf
+- idpwd.gov.au, UN IDPwD theme (ikincil): https://www.idpwd.gov.au/about-international-day-people-disability/united-nations-idpwd-theme
+- ohchr.org CRPD metni: 403, açılamadı.
